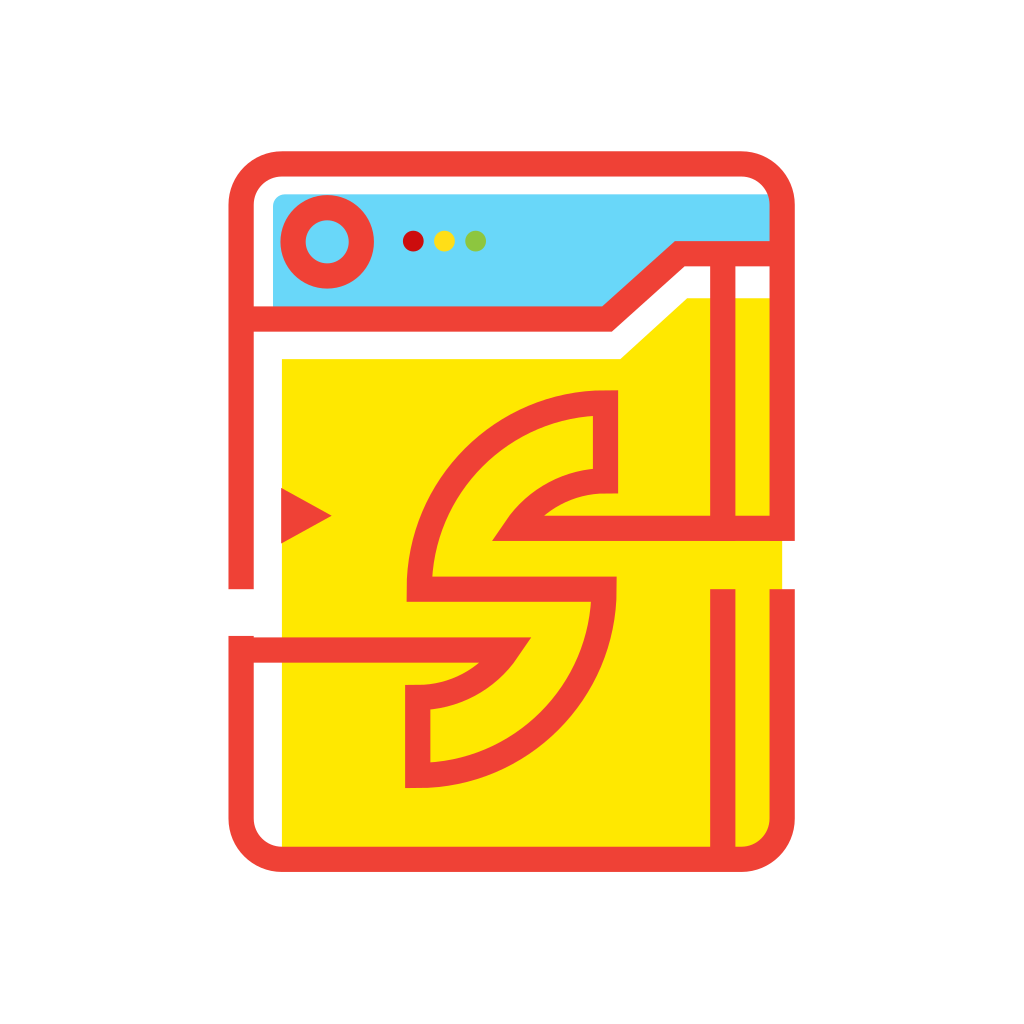
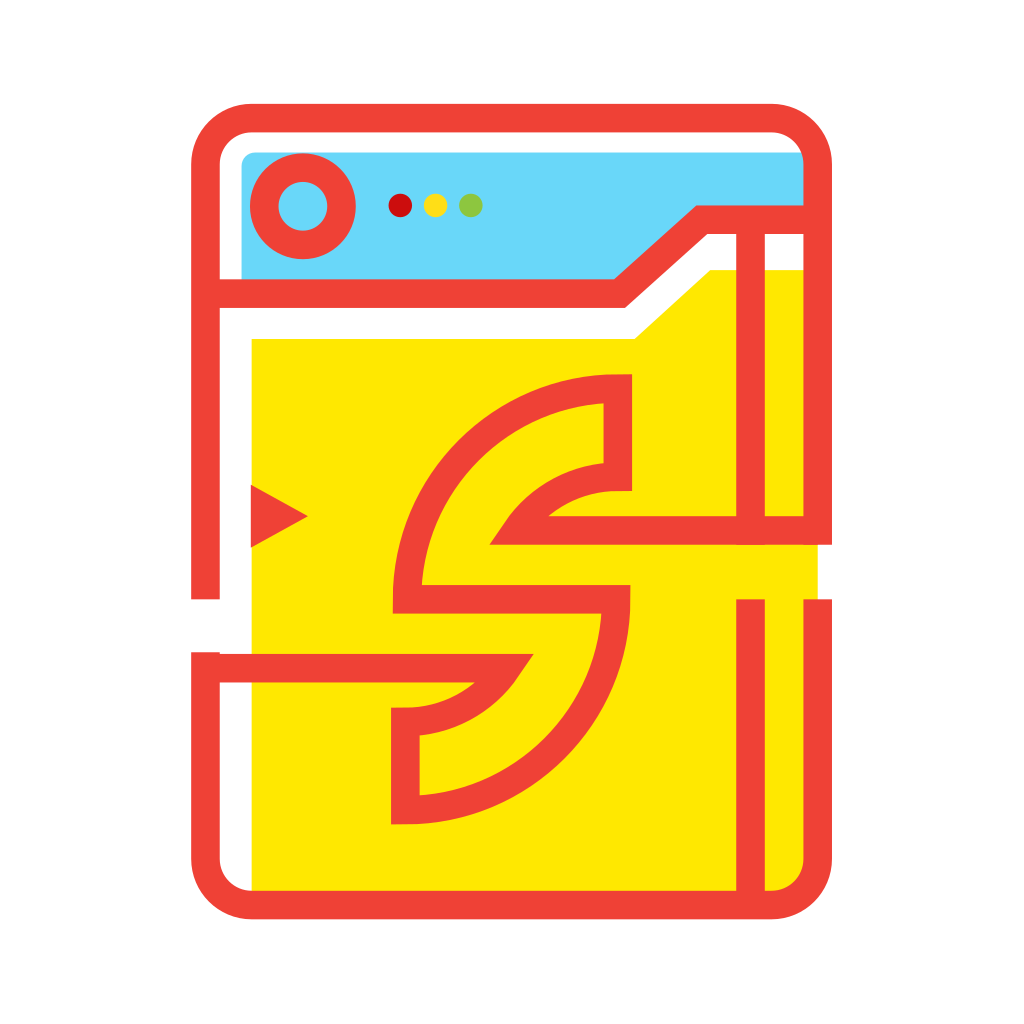
refactor(brand): guard committed assets against drift after review
A test now regenerates every asset and fails if a committed one differs,
and turbo re-runs it when those files change. Names the icon sizes, enlarges
the logo on the iOS icon, and documents the pwaAssets wiring and the splash
colours' link to the background tokens.

Changed region(s): [[0.1875, 0.0938, 0.8125, 0.9062]]

diff --git a/packages/brand/src/assets.ts b/packages/brand/src/assets.ts
@@ -9,6 +9,19 @@ const VIEWBOX = 512;
 
 const WHITE = "#FFFFFF";
 
+/** Edge of every generated mobile image. */
+const ICON_SIZE = 1024;
+
+/** The logo on the iOS icon: about 80% of its height, clear of the corner mask. */
+const IOS_LOGO_SIZE = 860;
+
+/**
+ * The logo on Android adaptive icon layers. Android masks them to shapes that
+ * always contain the centre 66dp of 108dp; at this size the artwork's farthest
+ * corner sits just inside that circle.
+ */
+const ADAPTIVE_LOGO_SIZE = 512;
+
 /** The logo without its `<g id="fill">` colour fills: just the outline. */
 function outlineOnly(svg: string): string {
   return svg.replace(/<g id="fill">[\s\S]*?<\/g>/, "");
@@ -61,22 +74,23 @@ export async function generateAssets(root: string): Promise<void> {
   const svg = await readFile(LOGO_PATH, "utf8");
   const mobile = join(root, "apps/mobile/assets/images");
 
-  await write(join(mobile, "icon.png"), await placeLogo(svg, 1024, 760, WHITE));
-  // Android masks adaptive icons to the centre 66dp of 108dp; at 512px the
-  // artwork's farthest corner sits just inside that circle.
-  await write(join(mobile, "android-icon-foreground.png"), await placeLogo(svg, 1024, 512, null));
+  await write(join(mobile, "icon.png"), await placeLogo(svg, ICON_SIZE, IOS_LOGO_SIZE, WHITE));
+  await write(
+    join(mobile, "android-icon-foreground.png"),
+    await placeLogo(svg, ICON_SIZE, ADAPTIVE_LOGO_SIZE, null),
+  );
   await write(
     join(mobile, "android-icon-background.png"),
-    await canvas(1024, WHITE).png().toBuffer(),
+    await canvas(ICON_SIZE, WHITE).png().toBuffer(),
   );
   // Android themed icons use only the alpha channel, so the fills would
   // flatten the artwork into a silhouette.
   await write(
     join(mobile, "android-icon-monochrome.png"),
-    await placeLogo(outlineOnly(svg), 1024, 512, null),
+    await placeLogo(outlineOnly(svg), ICON_SIZE, ADAPTIVE_LOGO_SIZE, null),
   );
   // The splash screen plugin sizes and centres this itself (`imageWidth`).
-  await write(join(mobile, "splash-icon.png"), await renderLogo(svg, 1024));
+  await write(join(mobile, "splash-icon.png"), await renderLogo(svg, ICON_SIZE));
 
   // The web builds its PWA icons from this copy (apps/web/pwa-assets.config.ts).
   await write(join(root, "apps/web/public/logo.svg"), svg);

diff --git a/packages/brand/test/assets.test.ts b/packages/brand/test/assets.test.ts
@@ -1,4 +1,4 @@
-import { mkdtemp, readFile, rm } from "node:fs/promises";
+import { mkdtemp, readFile, readdir, rm } from "node:fs/promises";
 import { tmpdir } from "node:os";
 import { join } from "node:path";
 import sharp from "sharp";
@@ -82,7 +82,8 @@ describe("generateAssets", () => {
     const path = "apps/mobile/assets/images/android-icon-monochrome.png";
     await expectWithinSafeZone(path);
 
-    // A point in the logo's yellow fill: painted in the foreground, not here.
+    // The logo's yellow fill at (150, 400) in its 512px viewBox, which these
+    // layers centre at 512px on 1024px: painted in the foreground, not here.
     const [x, y] = [256 + 150, 256 + 400];
     const foreground = await alphaOf("apps/mobile/assets/images/android-icon-foreground.png");
     const monochrome = await alphaOf(path);
@@ -105,4 +106,21 @@ describe("generateAssets", () => {
       expect(await readFile(join(root, path), "utf8")).toBe(source);
     },
   );
+
+  it("matches the assets committed to the repo", async () => {
+    const repo = join(import.meta.dirname, "../../..");
+    const generated = await readdir(root, { recursive: true, withFileTypes: true });
+    const files = generated
+      .filter((entry) => entry.isFile())
+      .map((entry) => join(entry.parentPath, entry.name).slice(root.length + 1));
+
+    expect(files.length).toBeGreaterThan(0);
+    for (const file of files) {
+      const committed = await readFile(join(repo, file));
+      const fresh = await readFile(join(root, file));
+      expect(committed.equals(fresh), `${file} is stale: run \`bun run generate:assets\``).toBe(
+        true,
+      );
+    }
+  });
 });

diff --git a/apps/web/vite.config.ts b/apps/web/vite.config.ts
@@ -30,6 +30,8 @@ export default defineConfig({
         start_url: "/",
         id: "/",
       },
+      // Generates the icons, favicon, and apple-touch icon from public/logo.svg
+      // (pwa-assets.config.ts) and injects them into the manifest and index.html.
       pwaAssets: { disabled: false, config: true },
       devOptions: { enabled: true },
     }),

diff --git a/docs/setup.md b/docs/setup.md
@@ -46,7 +46,7 @@ bun run build
 bun run generate:assets
 ```
 
-This writes the mobile app icon, Android adaptive icon layers (foreground, background, monochrome), and splash image to `apps/mobile/assets/images/`, and copies the SVG to `apps/web/public/logo.svg` and `apps/marketing/src/images/logo.svg`. Commit the results. The web's PWA icons, favicon, and apple-touch icon aren't committed: `vite-plugin-pwa` builds them from `apps/web/public/logo.svg` (`apps/web/pwa-assets.config.ts`).
+This writes the mobile app icon, Android adaptive icon layers (foreground, background, monochrome), and splash image to `apps/mobile/assets/images/`, and copies the SVG to `apps/web/public/logo.svg` and `apps/marketing/src/images/logo.svg`. Commit the results; `bun run test` fails while any are stale. The splash backgrounds in `apps/mobile/app.json` (`#FFFFFF`, dark `#0A0A0A`) mirror the light and dark `--color-background` tokens, so update them if those change. The web's PWA icons, favicon, and apple-touch icon aren't committed: `vite-plugin-pwa` builds them from `apps/web/public/logo.svg` (`apps/web/pwa-assets.config.ts`).
 
 ## Quality checks
 
